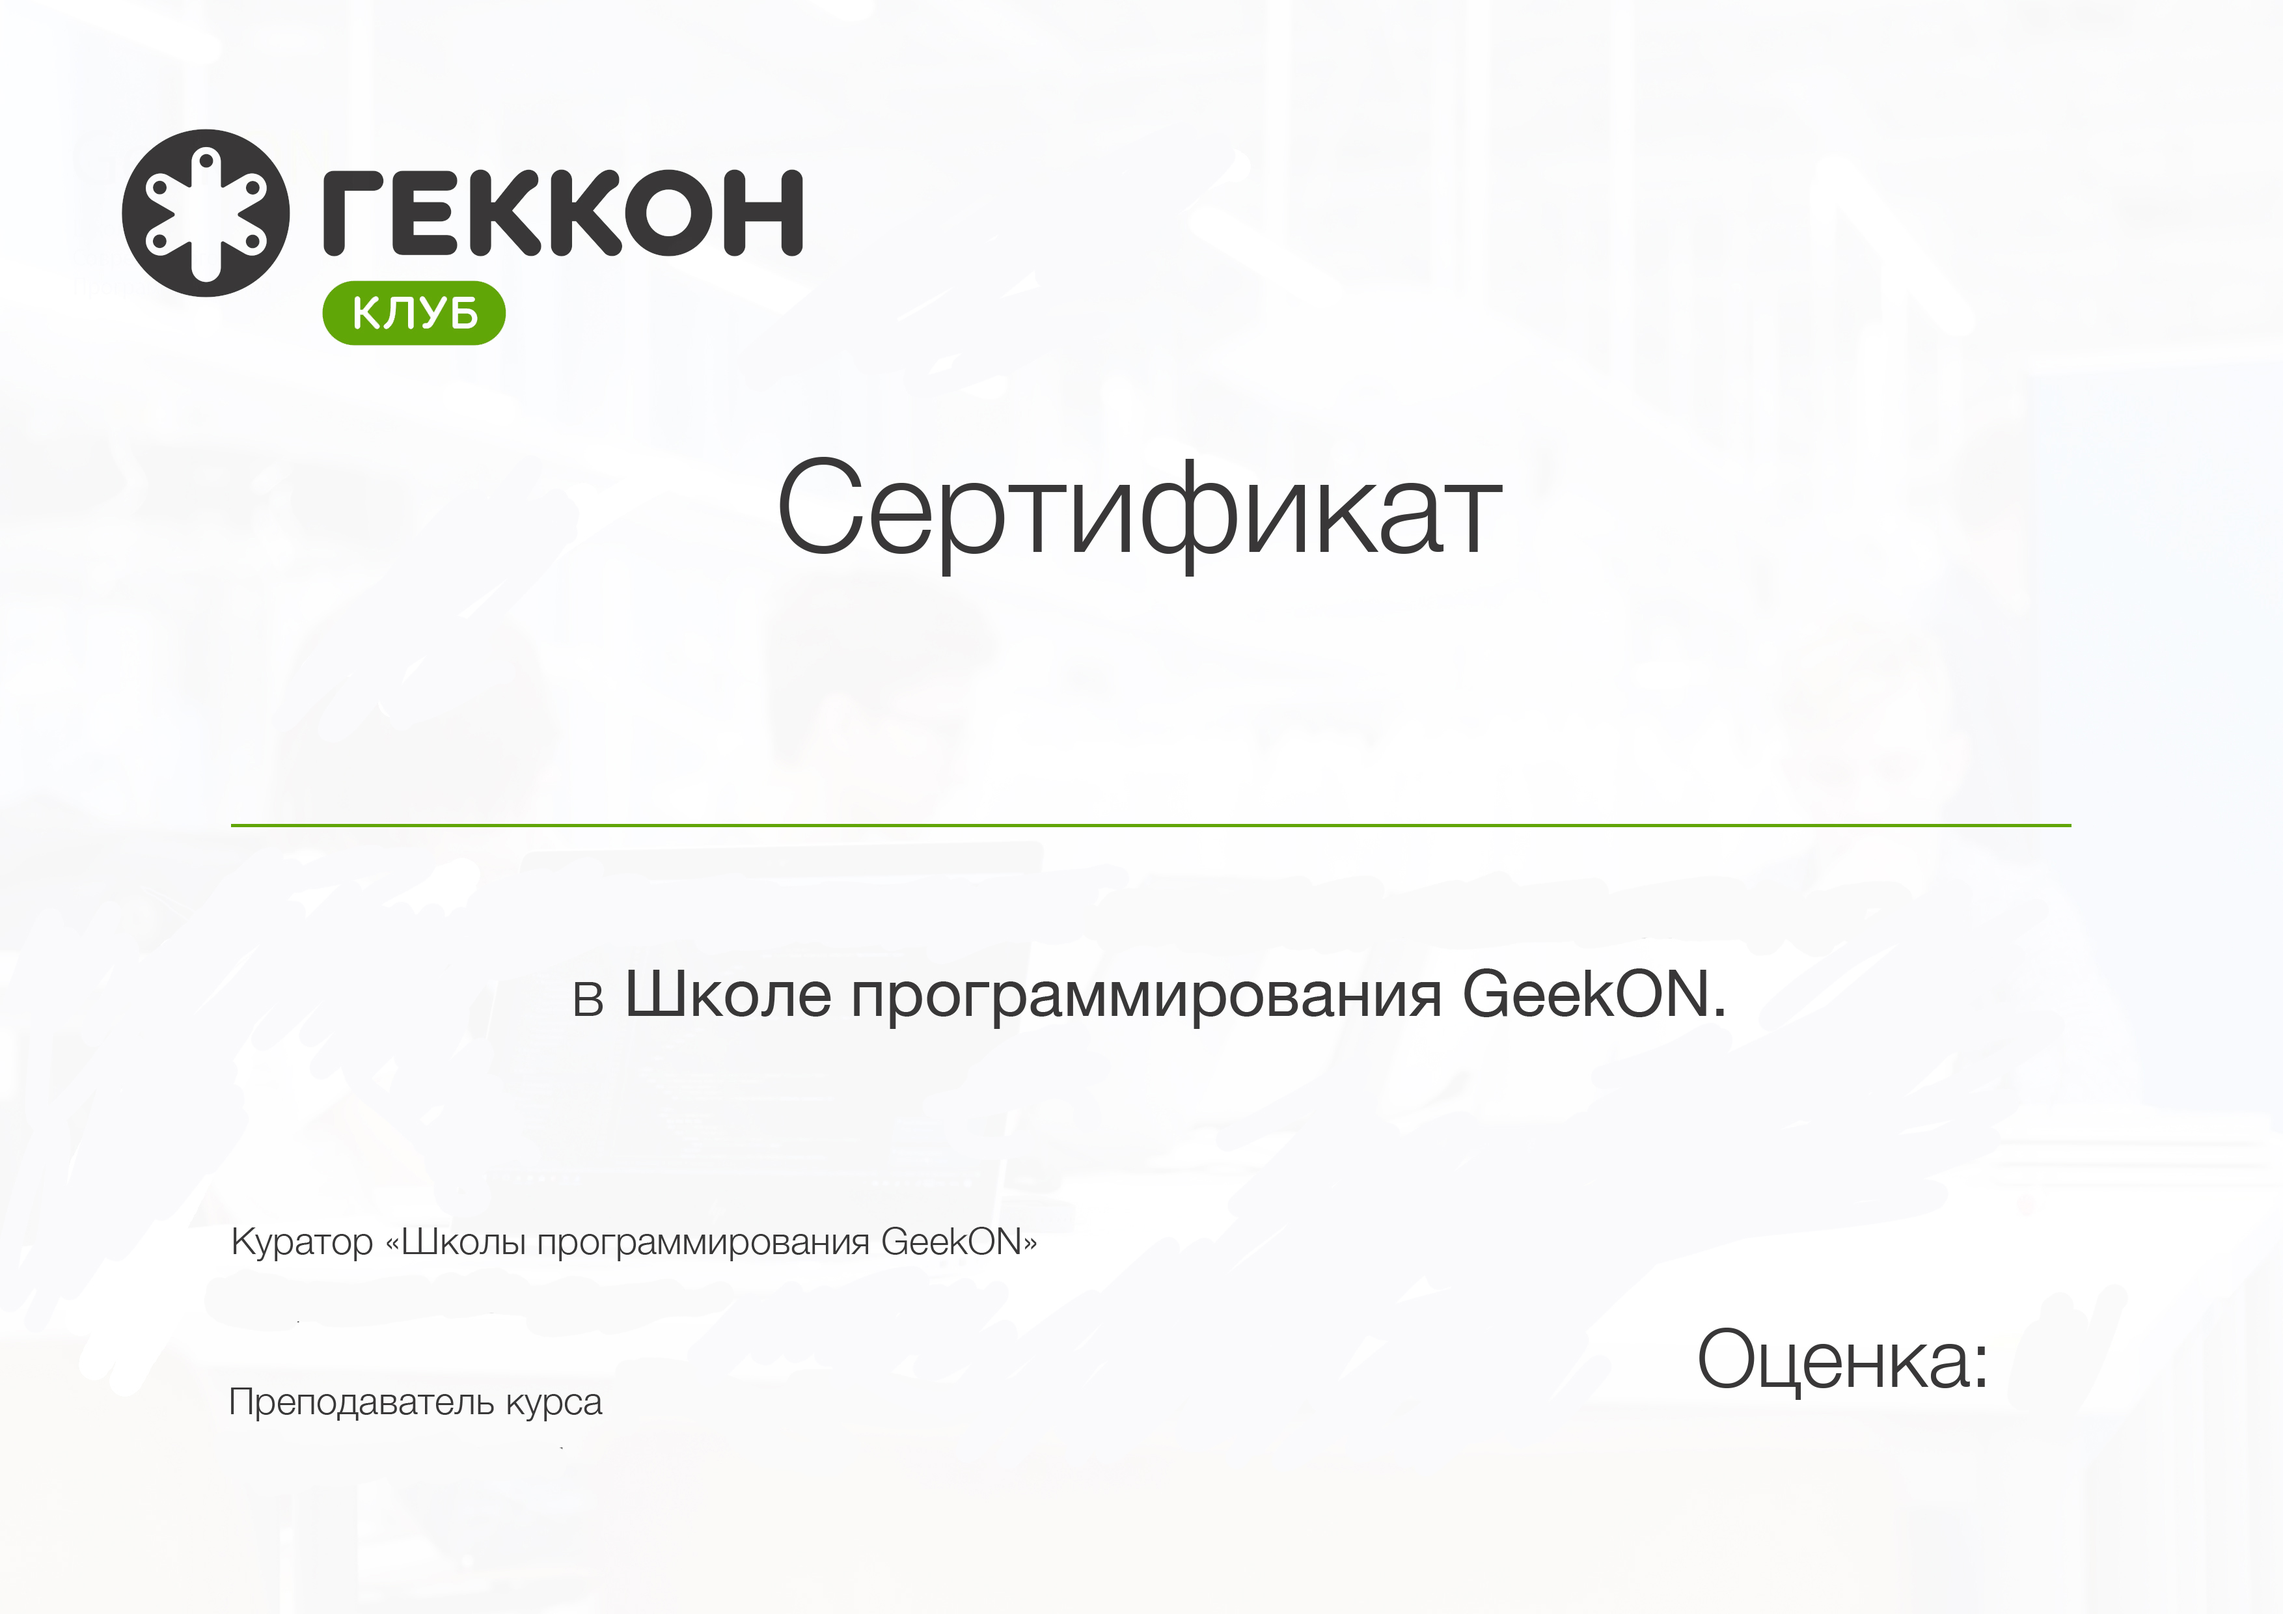
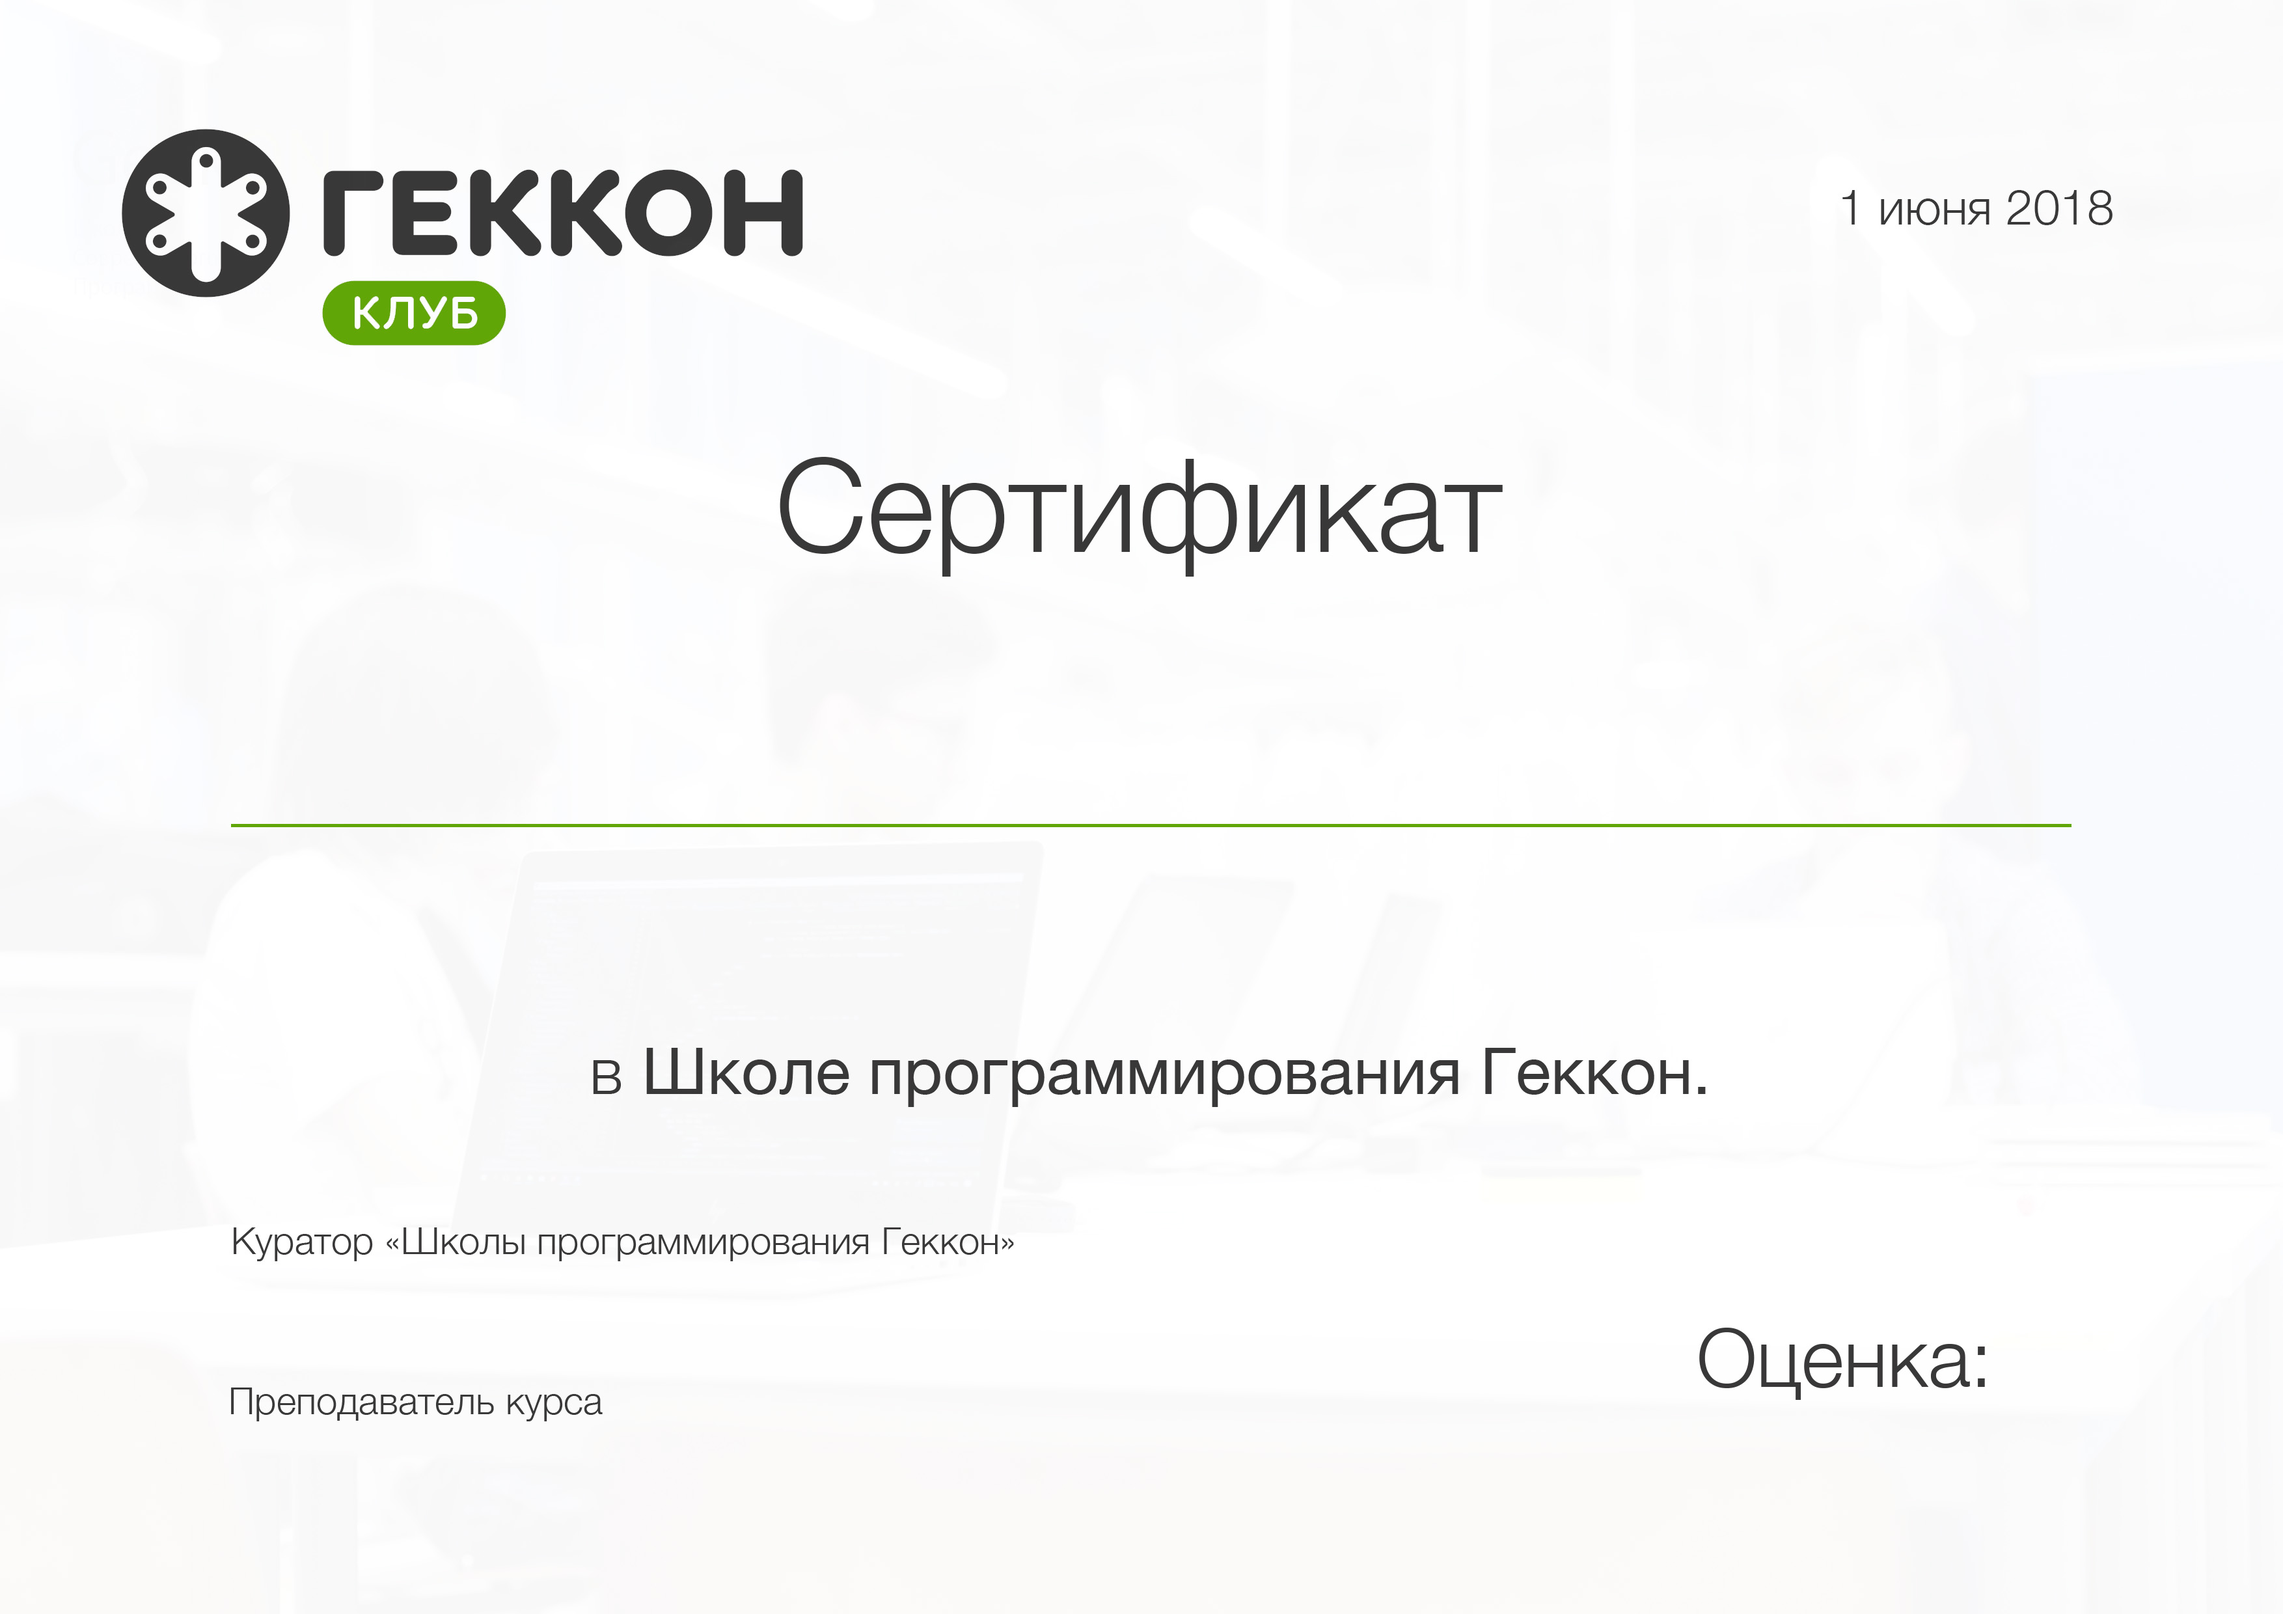
поменял шаблон

Changed region(s): [[0.2486, 0.5899, 0.7457, 0.6831], [0.8079, 0.1242, 0.9011, 0.1552], [0.4039, 0.7452, 0.4661, 0.7762]]

diff --git a/main.py b/main.py
@@ -13,64 +13,61 @@ import tornado.web
 from PIL import Image, ImageDraw, ImageFont
 
 
-class MainHandler (tornado.web.RequestHandler):
-	def get(self):
-		self.write("working")
-	def post(self):
-		data = tornado.escape.json_decode(self.request.body)
-		path = 'gekkon_template.jpg'
-		font_type = 'HelveticaNeueCyr-Medium.ttf'
-		output_folder = os.path.join(os.path.dirname(os.path.realpath(__file__)),
-					      "images")
-		name_font = ImageFont.truetype(font_type, 170)
-		mark_font = ImageFont.truetype(font_type, 150)
-		course_font = ImageFont.truetype('HelveticaNeueCyr-Thin.ttf', 110)
-		course_font_small = ImageFont.truetype('HelveticaNeueCyr-Thin.ttf', 70)
-		teacher_font = ImageFont.truetype('HelveticaNeueCyr-Thin.ttf', 70)
-		data_return = {}
-		for course in data['courses']:
-			students = course ['students']
+class MainHandler(tornado.web.RequestHandler):
+    def get(self):
+        self.write("working")
 
-			for student in students:
-				image = Image.open(path)
-				draw = ImageDraw.Draw(image)
-				image_width = image.size[0]
-				text_size = draw.textsize(student['name'], font=name_font)
-				course_size = draw.textsize("О прохождении курса: «" + course['name'] + "»", font=course_font)
-				x_name = (image_width / 2) - (text_size[0] / 2)
-				x_course = (image_width / 2) - (course_size[0] / 2)
-				#drawing student's name
-				draw.text((x_name, 1070), student['name'], (0,0,0),font=name_font)
-				#drawing course's name
-				draw.text((x_course, 1360), "О прохождении курса: «" + course['name'] + "»", (0, 0, 0),
-					  font=course_font)
-				draw.text((960, 2120), "«" + course['name'] + "»", (0, 0, 0), font=course_font_small)
-				#drawing mark
-				draw.text((3100, 2025), student['mark'], (97,167, 7), font=mark_font)
-				#drawing teacher
-				draw.text((356, 1973), course['teachers'][0]['name'], (0, 0, 0), font=teacher_font)
-				draw.text((356, 2210), course['teachers'][1]['name'], (0, 0, 0), font=teacher_font)
-				name = str(uuid.uuid4())+ '.jpg'
-				image.save(os.path.join(output_folder, name) )
+    def post(self):
+        data = tornado.escape.json_decode(self.request.body)
+        path = 'gekkon_template.jpg'
+        font_type = 'HelveticaNeueCyr-Medium.ttf'
+        output_folder = os.path.join(os.path.dirname(os.path.realpath(__file__)),
+                                     "images")
+        name_font = ImageFont.truetype(font_type, 170)
+        mark_font = ImageFont.truetype(font_type, 150)
+        course_font = ImageFont.truetype('HelveticaNeueCyr-Thin.ttf', 110)
+        course_font_small = ImageFont.truetype('HelveticaNeueCyr-Thin.ttf', 70)
+        teacher_font = ImageFont.truetype('HelveticaNeueCyr-Thin.ttf', 70)
+        data_return = {}
+        for course in data['courses']:
+            students = course['students']
 
-				direct_url = 'https://cert.geekclass.ru/images/' +name
-				data_return[student['id']] = {}
-				data_return[student['id']]['name'] = student ['name']
-				data_return[student['id']]['link'] = direct_url
+            for student in students:
+                image = Image.open(path)
+                draw = ImageDraw.Draw(image)
+                image_width = image.size[0]
+                text_size = draw.textsize(student['name'], font=name_font)
+                course_size = draw.textsize("О прохождении курса\n «" + course['name'] + "»", font=course_font)
+                x_name = (image_width / 2) - (text_size[0] / 2)
+                x_course = (image_width / 2) - (course_size[0] / 2)
+                # drawing student's name
+                draw.text((x_name, 1070), student['name'], (0, 0, 0), font=name_font)
+                # drawing course's name
+                draw.text((x_course, 1360), "О прохождении курса\n «" + course['name'] + "»", (0, 0, 0),
+                          font=course_font)
+                draw.text((960, 2120), "«" + course['name'] + "»", (0, 0, 0), font=course_font_small)
+                # drawing mark
+                draw.text((3100, 2025), student['mark'], (97, 167, 7), font=mark_font)
+                # drawing teacher
+                draw.text((356, 1973), course['teachers'][0]['name'], (0, 0, 0), font=teacher_font)
+                draw.text((356, 2210), course['teachers'][1]['name'], (0, 0, 0), font=teacher_font)
+                name = str(uuid.uuid4()) + '.jpg'
+                image.save(os.path.join(output_folder, name))
 
-		print(json.dumps(data_return, ensure_ascii=False))
-		self.write(json.dumps(data_return, ensure_ascii=False))
+                direct_url = 'https://cert.geekclass.ru/images/' + name
+                data_return[student['id']] = {}
+                data_return[student['id']]['name'] = student['name']
+                data_return[student['id']]['link'] = direct_url
 
-
-
+        print(json.dumps(data_return, ensure_ascii=False))
+        self.write(json.dumps(data_return, ensure_ascii=False))
 
 
 settings = [
     (r'/', MainHandler),
-	(r'/images/(.*)', tornado.web.StaticFileHandler, {'path': os.path.join(os.path.dirname(os.path.realpath(__file__)),'images')})
+    (r'/images/(.*)', tornado.web.StaticFileHandler,
+     {'path': os.path.join(os.path.dirname(os.path.realpath(__file__)), 'images')})
 ]
 app = tornado.web.Application(settings)
 app.listen(8088)
 tornado.ioloop.IOLoop.current().start()
-
-
